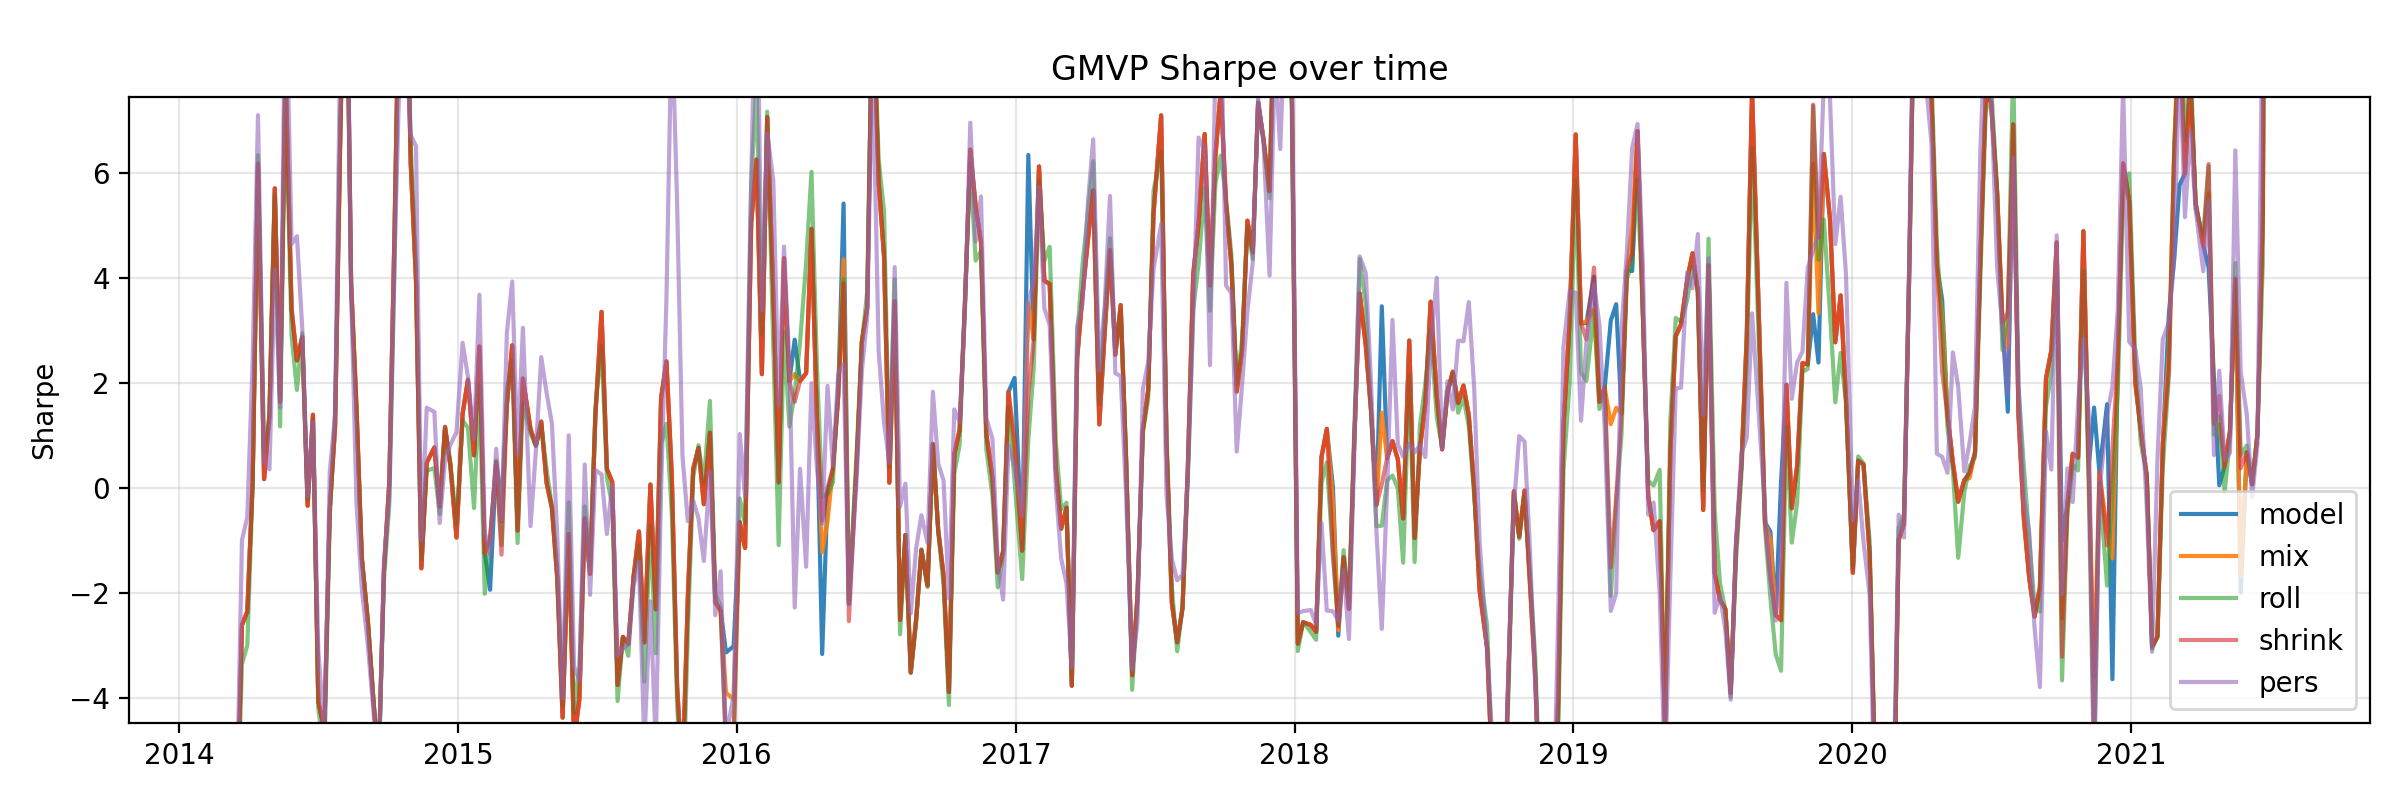
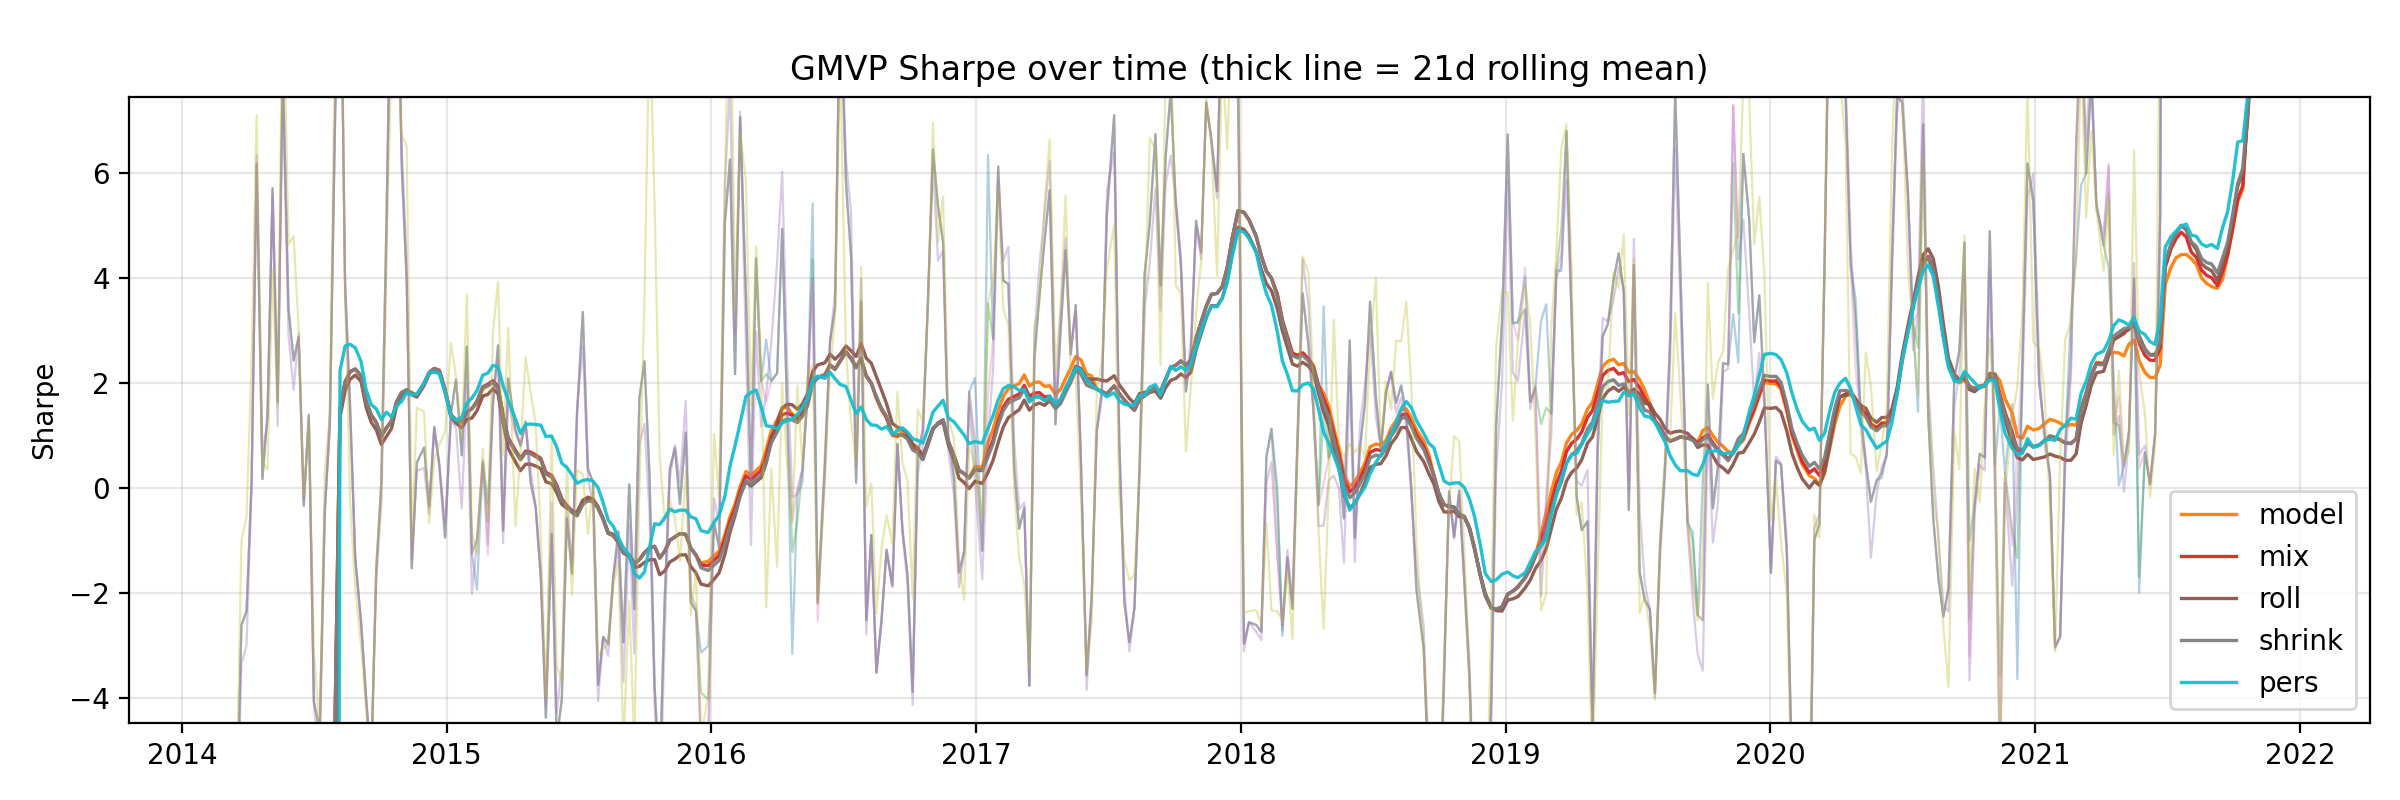
[result] patch updated cov + vol results

diff --git a/scripts/analysis/core/visualize_backtest_results.py b/scripts/analysis/core/visualize_backtest_results.py
@@ -45,6 +45,7 @@ def _metric_cols(df: pd.DataFrame, metric: str, methods: List[str]):
 
 
 def plot_equity_curves(df, outdir, methods):
+    """Single-panel plot: GMVP cumulative wealth for all methods."""
     cols = _metric_cols(df, "gmvp_cumret", methods)
     if not cols:
         return
@@ -54,6 +55,7 @@ def plot_equity_curves(df, outdir, methods):
         eq = np.cumprod(1 + r)
         plt.plot(eq.index, eq.values, label=m)
     plt.title("GMVP Equity Curves")
+    plt.ylabel("Cumulative wealth")
     plt.legend()
     plt.grid(alpha=0.3)
     _savefig(os.path.join(outdir, "equity_curves_gmvp.png"))
@@ -93,7 +95,7 @@ def plot_rolling_median(df, outdir, methods, metrics, window):
     _savefig(os.path.join(outdir, f"rolling_median_{window}d.png"))
 
 
-def plot_gmvp_sharpe(df, outdir, methods):
+def plot_gmvp_sharpe(df, outdir, methods, roll_window: int = 21):
     cols = _metric_cols(df, "gmvp_sharpe", methods)
     if not cols:
         return
@@ -110,8 +112,11 @@ def plot_gmvp_sharpe(df, outdir, methods):
         q1, q99 = -1.0, 1.0
     plt.figure(figsize=(12, 4))
     for m, c in cols.items():
-        plt.plot(df[c], label=m, alpha=0.9 if m in {"model", "mix"} else 0.6)
-    plt.title("GMVP Sharpe over time")
+        s = pd.to_numeric(df[c], errors="coerce")
+        plt.plot(s.index, s.values, alpha=0.35, linewidth=0.8)
+        r = s.rolling(roll_window, min_periods=1).mean()
+        plt.plot(r.index, r.values, label=m, alpha=0.95, linewidth=1.2)
+    plt.title("GMVP Sharpe over time (thick line = 21d rolling mean)")
     plt.ylabel("Sharpe")
     plt.grid(alpha=0.3)
     plt.legend()
@@ -119,14 +124,17 @@ def plot_gmvp_sharpe(df, outdir, methods):
     _savefig(os.path.join(outdir, "gmvp_sharpe_timeseries.png"))
 
 
-def plot_turnover_l1(df, outdir, methods):
+def plot_turnover_l1(df, outdir, methods, roll_window: int = 21):
     cols = _metric_cols(df, "turnover_l1", methods)
     if not cols:
         return
     plt.figure(figsize=(12, 4))
     for m, c in cols.items():
-        plt.plot(df[c], label=m, alpha=0.9 if m in {"model", "mix"} else 0.6)
-    plt.title("GMVP turnover (L1) over time")
+        s = pd.to_numeric(df[c], errors="coerce")
+        plt.plot(s.index, s.values, alpha=0.35, linewidth=0.8)
+        r = s.rolling(roll_window, min_periods=1).mean()
+        plt.plot(r.index, r.values, label=m, alpha=0.95, linewidth=1.2)
+    plt.title("GMVP turnover (L1) over time (thick line = 21d rolling mean)")
     plt.ylabel("turnover L1")
     plt.grid(alpha=0.3)
     plt.legend()
@@ -151,7 +159,13 @@ def plot_covariance_error_timeseries(df, outdir, methods, error_metric: str = "f
     _savefig(os.path.join(outdir, f"covariance_error_{error_metric}_timeseries.png"))
 
 
-def plot_cumulative_advantage(df, outdir, ref: str, methods: List[str], metric: str = "fro"):
+def plot_cumulative_advantage(
+    df, outdir, ref: str, methods: List[str], metric: str = "fro", *, higher_is_better: bool = False
+):
+    """
+    Cumulative advantage: cumsum of (ref - baseline) when higher_is_better else (baseline - ref).
+    Positive curve = reference is better than that baseline on average over time.
+    """
     ref_col = f"{ref}_{metric}"
     if ref_col not in df.columns:
         return
@@ -163,7 +177,7 @@ def plot_cumulative_advantage(df, outdir, ref: str, methods: List[str], metric: 
         if c not in df.columns:
             continue
         base_s = pd.to_numeric(df[c], errors="coerce")
-        diff = base_s - ref_s
+        diff = (ref_s - base_s) if higher_is_better else (base_s - ref_s)
         cum = diff.cumsum()
         plt.plot(cum.index, cum.values, label=f"{ref} vs {m}")
     plt.axhline(0, color="black", linestyle="--", alpha=0.7)
@@ -196,8 +210,8 @@ def main():
     plot_equity_curves(df, outdir, methods)
     plot_method_overlays(df, outdir, methods, metrics)
     plot_rolling_median(df, outdir, methods, metrics, roll_window)
-    plot_gmvp_sharpe(df, outdir, methods)
-    plot_turnover_l1(df, outdir, methods)
+    plot_gmvp_sharpe(df, outdir, methods, roll_window=roll_window)
+    plot_turnover_l1(df, outdir, methods, roll_window=roll_window)
 
     error_metric = cfg["plot"].get("error_metric", "fro")
     plot_covariance_error_timeseries(df, outdir, methods, error_metric=error_metric)
@@ -206,6 +220,23 @@ def main():
     for ref in ("model", "mix"):
         if ref in methods:
             plot_cumulative_advantage(df, outdir, ref=ref, methods=methods, metric=cum_metric)
+
+    # Cumulative return advantage: model vs baselines, mix vs baselines (separate files, same style as other cum-adv)
+    if _metric_cols(df, "gmvp_cumret", methods):
+        for ref in ("model", "mix"):
+            if ref in methods:
+                plot_cumulative_advantage(
+                    df, outdir, ref=ref, methods=methods, metric="gmvp_cumret", higher_is_better=True
+                )
+
+    # Cumulative advantage for GMVP and turnover (easier to read than raw daily series)
+    for metric, higher in [("gmvp_sharpe", True), ("gmvp_vol", False), ("turnover_l1", False)]:
+        if _metric_cols(df, metric, methods):
+            for ref in ("model", "mix"):
+                if ref in methods:
+                    plot_cumulative_advantage(
+                        df, outdir, ref=ref, methods=methods, metric=metric, higher_is_better=higher
+                    )
 
     print("\nSaved figures:")
     for f in SAVED_FILES:

diff --git a/scripts/analysis/utils/__init__.py b/scripts/analysis/utils/__init__.py
@@ -1,2 +1,17 @@
 """Shared helpers for analysis scripts (paths, IO, etc.)."""
 
+from scripts.analysis.utils.paths import (
+    REPO_ROOT,
+    RESULTS_DIR,
+    resolve_backtest_path,
+    resolve_figs_dir,
+    resolve_report_path,
+)
+
+__all__ = [
+    "REPO_ROOT",
+    "RESULTS_DIR",
+    "resolve_backtest_path",
+    "resolve_figs_dir",
+    "resolve_report_path",
+]

diff --git a/scripts/analysis/regime/performance_by_regime.py b/scripts/analysis/regime/performance_by_regime.py
@@ -10,7 +10,7 @@ from pathlib import Path
 import numpy as np
 import pandas as pd
 
-from scripts.analysis.utils.paths import resolve_backtest_path, resolve_figs_dir
+from scripts.analysis.utils import resolve_backtest_path, resolve_figs_dir
 
 
 def _detect_target(df: pd.DataFrame) -> str:

diff --git a/docs/GMVP_VOL_TUNING.md b/docs/GMVP_VOL_TUNING.md
@@ -1,0 +1,41 @@
+# Improving model cumulative advantage on GMVP vol
+
+**Goal:** Raise the cumulative advantage of the **model** vs roll/shrink/mix on `gmvp_vol` (lower model GMVP volatility = positive advantage).
+
+**Pipeline:** Model GMVP vol is the realized daily volatility of the portfolio built from the **model’s** forecast covariance (`Sigma_hat`), after guardrail and floor. Roll/mix/shrink use their own covariances. So model vol is driven by:
+
+1. **Stability of the forecast** (guardrail, floor, kNN, regimes)
+2. **Concentration of GMVP weights** (more ridge → more diversified → often lower vol)
+
+---
+
+## Config levers (regime_covariance.yaml)
+
+| Parameter | Current | Effect on model gmvp_vol | Suggested for lower vol |
+|-----------|--------|---------------------------|--------------------------|
+| **guardrail.trace_ratio_lo / hi** | 0.4, 2.5 | When trace(Sigma_hat)/trace(S_roll) ∉ [lo, hi], model uses S_shrink. Tighter band → replace with shrink more often → more stable. | e.g. **0.6, 2.0** or **0.7, 1.8** |
+| **stability.floor_eps** | 5e-4 | Diagonal ridge on matrix used for GMVP weights. Larger → less extreme weights → usually **lower** realized vol. | e.g. **1e-3** or **2e-3** |
+| **backtest.k_neighbors** | 10 | More neighbors → smoother Sigma_hat → less jumpy weights. | e.g. **14** or **18** |
+| **backtest.long_only** | false | Long-only GMVP → less extreme positions, often lower turnover and vol. | **true** to try |
+| **model.n_regimes** | 4 | Fewer regimes → smoother regime mix; more → can be jumpier. | e.g. **3** to test |
+| **model.transition_estimator** | soft | Soft uses full posteriors; hard uses argmax. Soft is usually smoother. | keep **soft** |
+
+**Note:** `mixing.mix_lambda` only affects the **mix** path, not the **model** path. To improve *model* gmvp_vol you need to stabilize the model’s covariance (guardrail, floor, k, regimes) or the GMVP construction (floor_eps, long_only).
+
+---
+
+## Quick changes to try
+
+1. **Tighten guardrail** so the model falls back to shrink more often when the raw forecast is extreme:
+   - `trace_ratio_lo: 0.6`, `trace_ratio_hi: 2.0`
+2. **Increase floor_eps** so GMVP weights are less concentrated:
+   - `floor_eps: 1.0e-3` or `2.0e-3`
+3. **Increase k_neighbors** for a smoother forecast:
+   - `k_neighbors: 14` or `18`
+4. Optionally set **long_only: true** and/or **n_regimes: 3** and re-run the backtest, then regenerate `cumulative_advantage_model_gmvp_vol.png` with `run_all`.
+
+After changing config, re-run:
+```bash
+python run_backtest.py --config configs/regime_covariance.yaml
+python -m scripts.analysis.run_all --target covariance
+```
